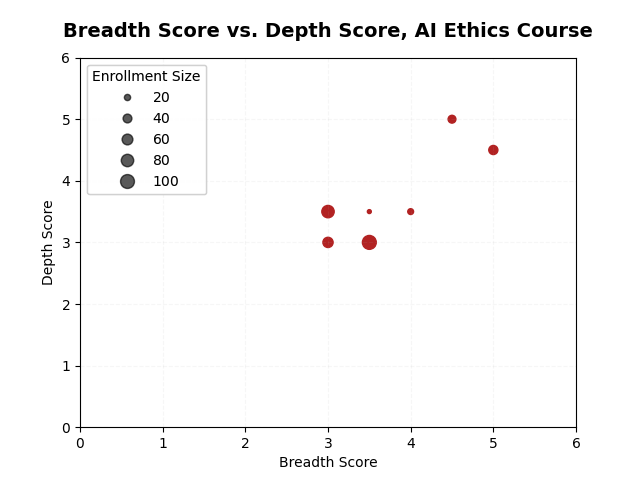
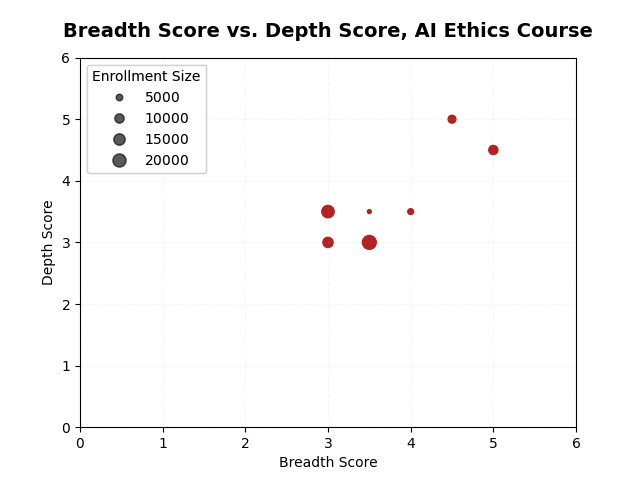
fixing legend

Changed region(s): [[0.1562, 0.1875, 0.3125, 0.4062]]

diff --git a/viz/viz_score.py b/viz/viz_score.py
@@ -55,7 +55,7 @@ def main():
         plt.text(row["Theory Score"], row["Application Score"] + 0.1, row["University Abbreviation"], fontsize=9, ha='center')
 
     # Create a legend for the sizes
-    handles, labels = scatter.legend_elements(prop="sizes", alpha=0.6, num=5)
+    handles, labels = scatter.legend_elements(prop="sizes", alpha=0.6, num=5, func=lambda s: s * filtered_data["Undergrad Enrollement"].max() / 100)
     size_legend = plt.legend(handles, labels, loc="lower left", title="Enrollment Size")
     plt.grid(axis="x", linestyle="--", alpha=0.1)
     plt.grid(axis="y", linestyle="--", alpha=0.1)
@@ -77,7 +77,7 @@ def main():
     #     plt.text(row["Ethics Course Breadth Score"], row["Ethics Course Depth Score"] - 0.2, row["University Abbreviation"], fontsize=9, ha='center')
 
     # Create a legend for the sizes
-    handles, labels = scatter2.legend_elements(prop="sizes", alpha=0.6, num=5)
+    handles, labels = scatter2.legend_elements(prop="sizes", alpha=0.6, num=5, func=lambda s: s * filtered_data2["Undergrad Enrollement"].max() / 100)
     size_legend = plt.legend(handles, labels, loc="upper left", title="Enrollment Size")
     plt.grid(axis="x", linestyle="--", alpha=0.1)
     plt.grid(axis="y", linestyle="--", alpha=0.1)
